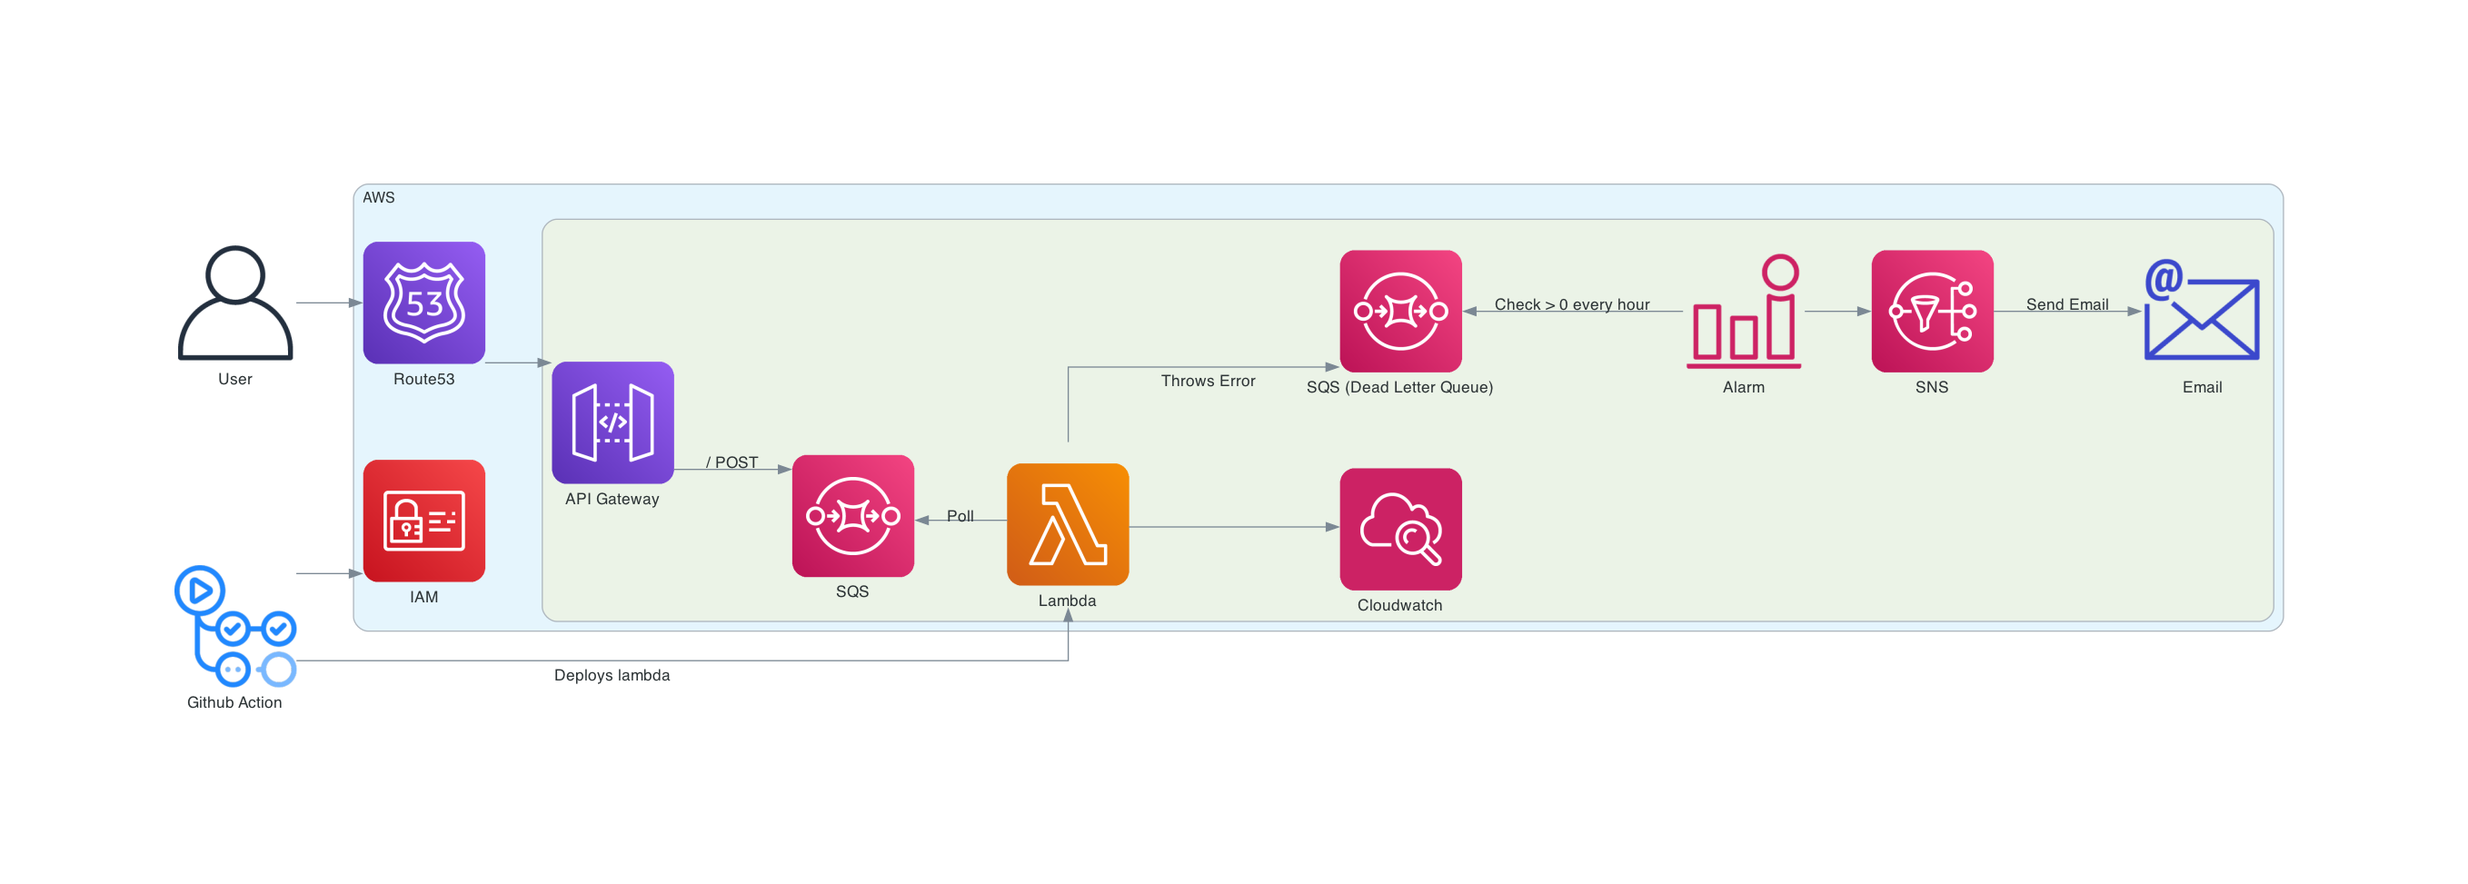
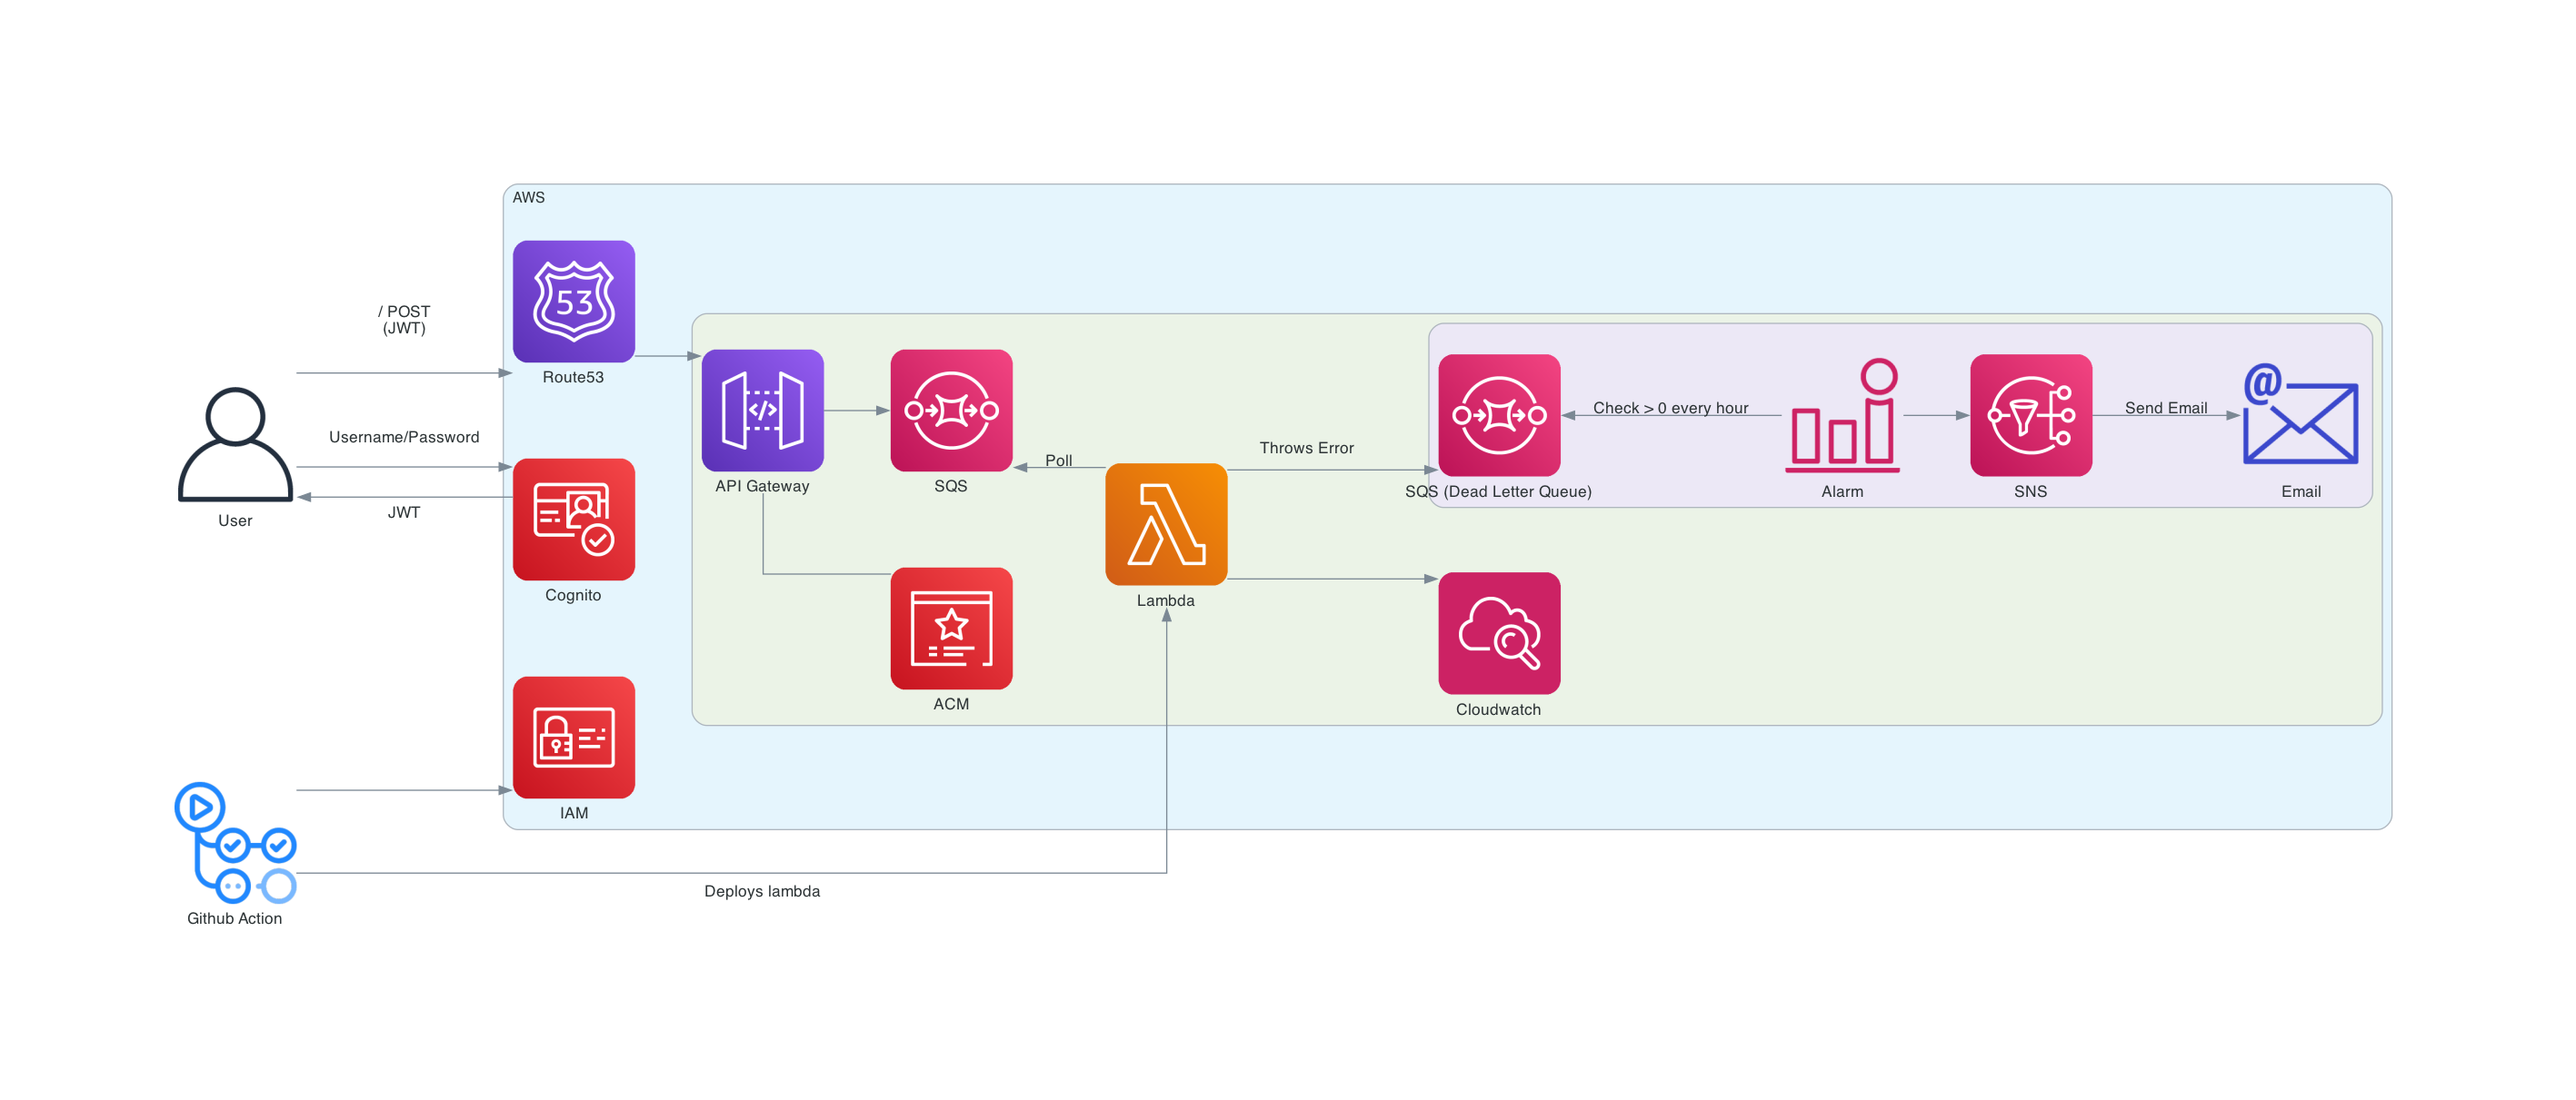
docs: Update backend diagram with cognito

Changed region(s): [[0.0619, 0.1542, 0.9278, 0.8325], [0.2784, 0.8016, 0.3093, 0.8325]]

diff --git a/docs/backend_diagram.py b/docs/backend_diagram.py
@@ -1,5 +1,5 @@
 from diagrams import Cluster, Diagram, Edge
-from diagrams.aws.security import ACM, IAM
+from diagrams.aws.security import ACM, IAM, Cognito
 from diagrams.aws.compute import Lambda
 from diagrams.aws.management import Cloudwatch, CloudwatchAlarm
 from diagrams.aws.engagement import SimpleEmailServiceSesEmail
@@ -15,17 +15,24 @@ with Diagram("", filename="backend_diagram", outformat="png"):
   with Cluster("AWS"):
     route_53 = Route53("Route53")
     iam_role_lambda = IAM("IAM")
+    cognito_userpool = Cognito("Cognito")
 
     with Cluster(""):
       api = APIGateway("API Gateway")
       lambda_sub = Lambda("Lambda")
 
-      api >> Edge(label="/ POST") >> SQS("SQS") << Edge(label="Poll") << lambda_sub
+    
+      api - ACM("ACM")
+      api >> SQS("SQS") << Edge(label="Poll") << lambda_sub
 
       lambda_sub >> Cloudwatch("Cloudwatch")
-      lambda_sub >> Edge(label="Throws Error\t\t") >> SQS("SQS (Dead Letter Queue)") << Edge(label="Check > 0 every hour") << CloudwatchAlarm("Alarm") >> SNS("SNS") >> Edge(label="Send Email") >> SimpleEmailServiceSesEmail("Email")
 
-  user >> route_53 >> api
+      with Cluster(""):
+        lambda_sub >> Edge(label="Throws Error\t\t") >> SQS("SQS (Dead Letter Queue)") << Edge(label="Check > 0 every hour") << CloudwatchAlarm("Alarm") >> SNS("SNS") >> Edge(label="Send Email") >> SimpleEmailServiceSesEmail("Email")
+
+  user >> Edge(label="/ POST\n(JWT)") >> route_53 >> api
+  user >> Edge(label="Username/Password") >> cognito_userpool
+  user << Edge(label="JWT") << cognito_userpool
 
   github_action_lambda >> iam_role_lambda
   github_action_lambda >> Edge(label="Deploys lambda") >> lambda_sub
